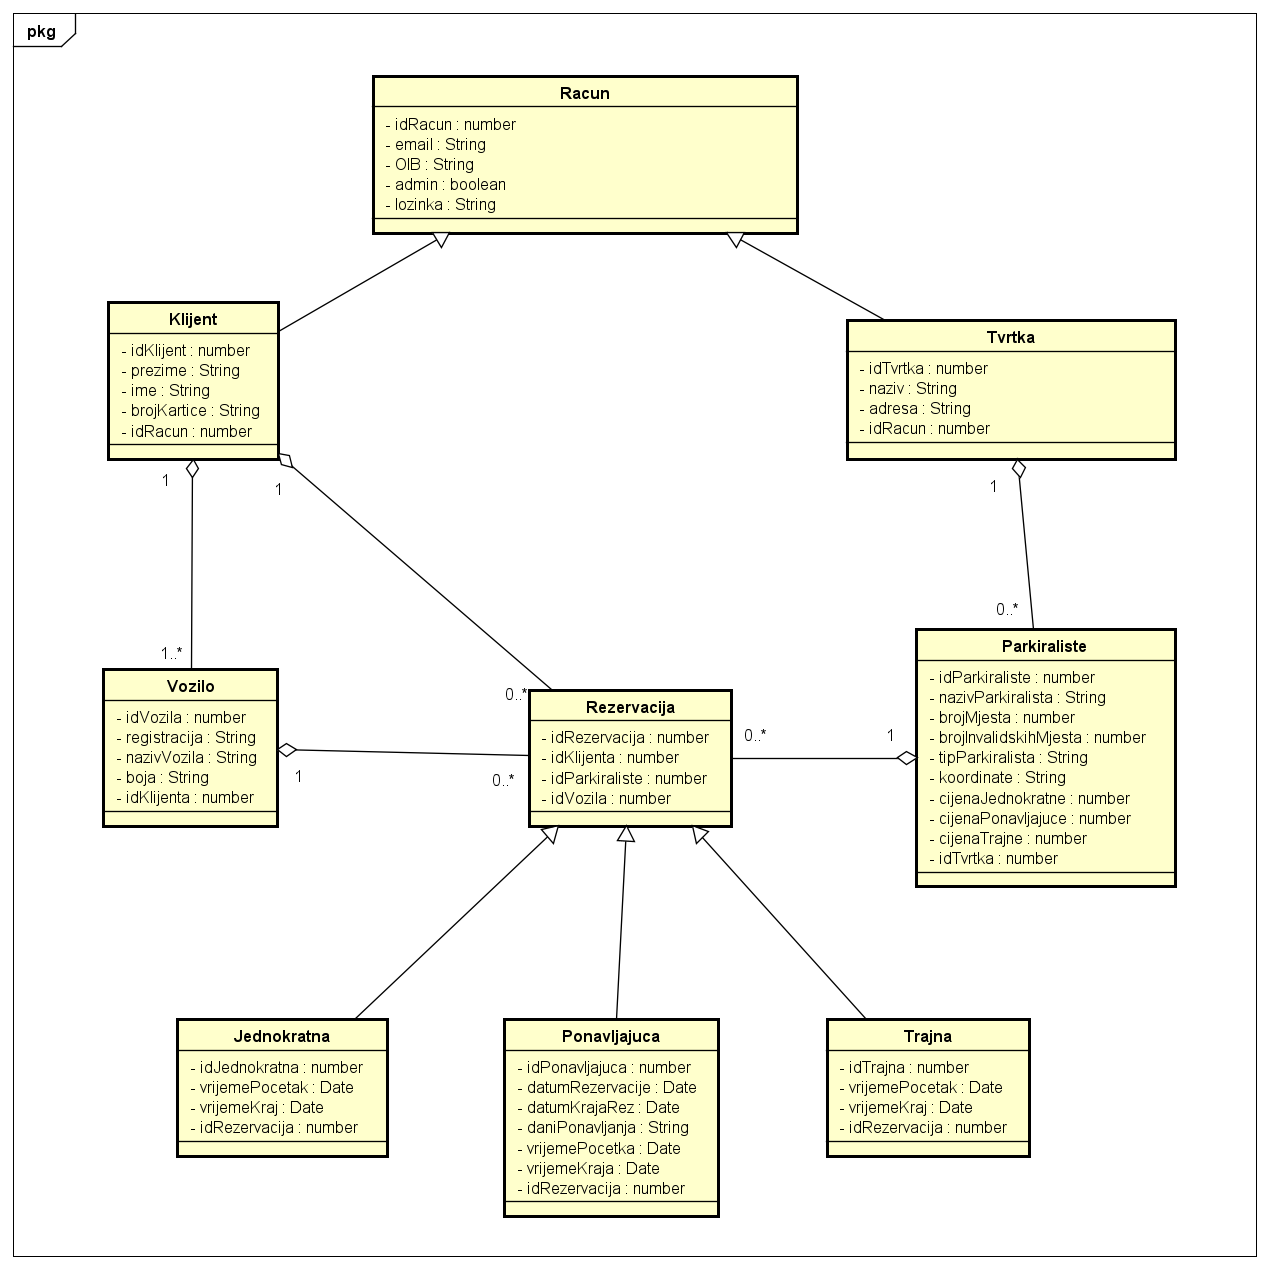
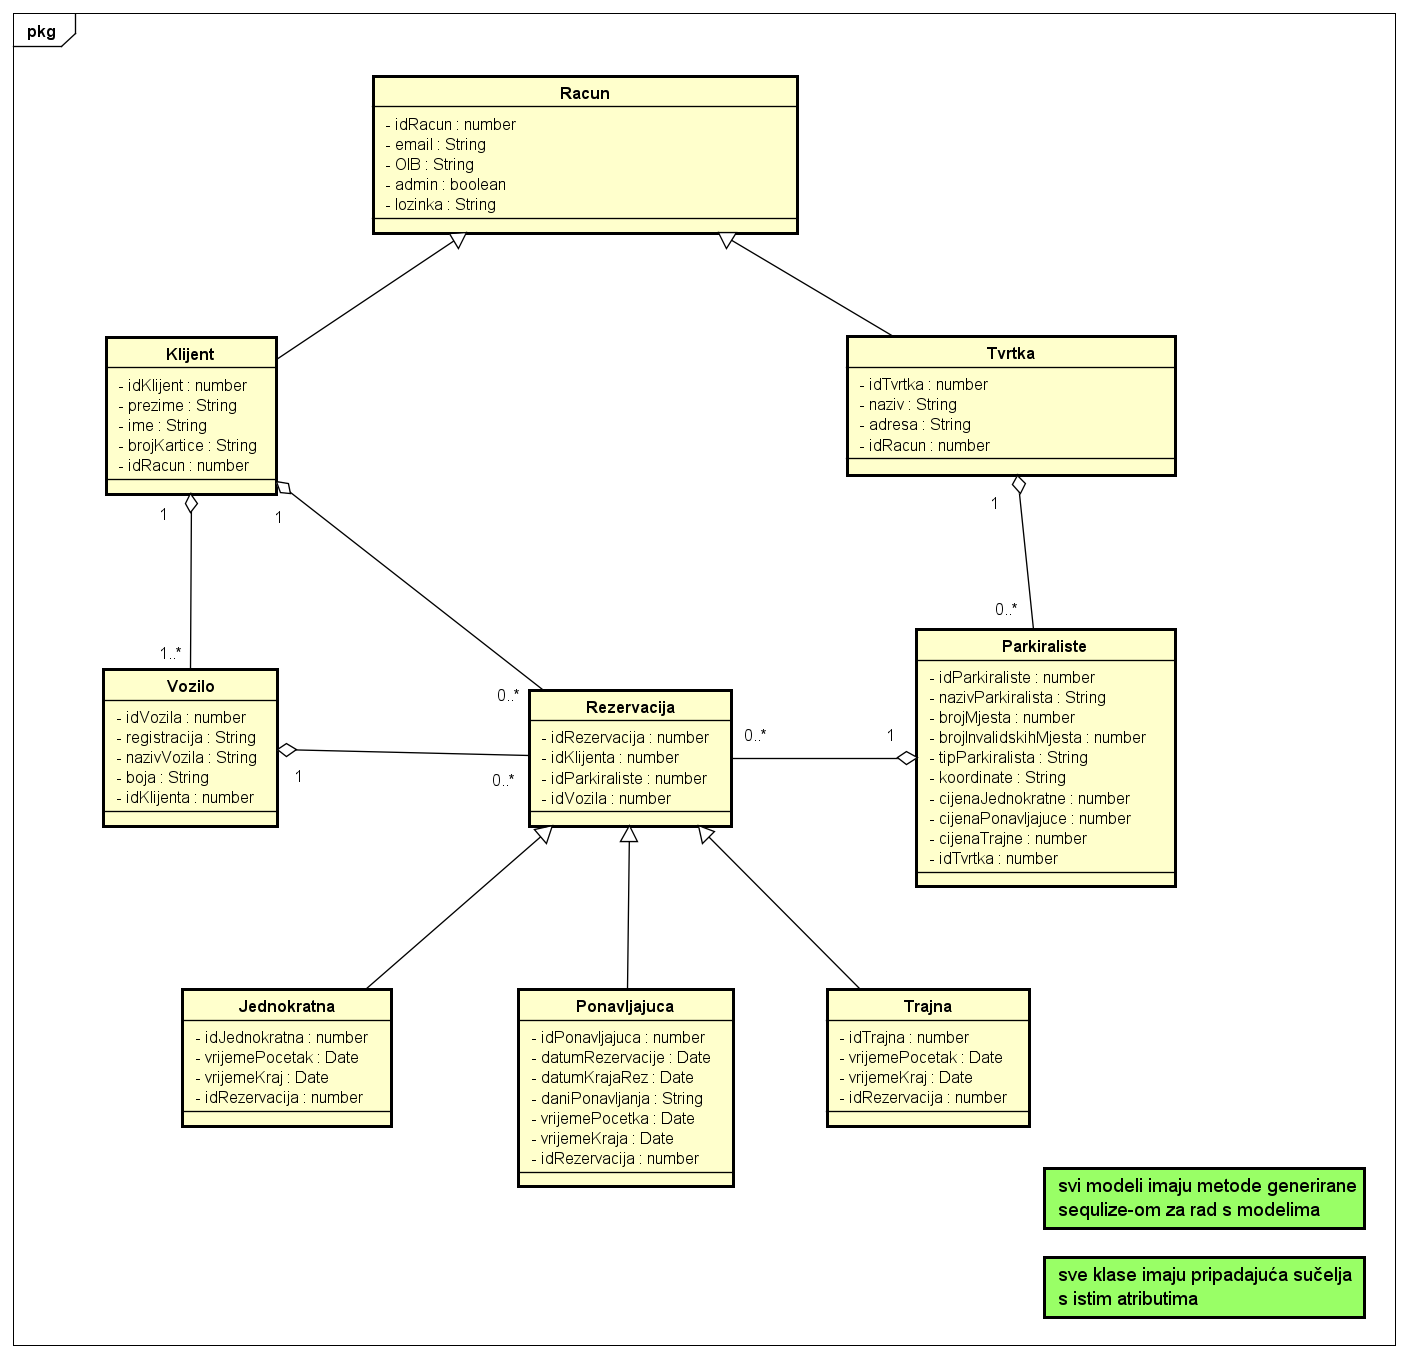
Update class diagram - models, fix image route

diff --git a/dokumentacija/Implementacija.tex b/dokumentacija/Implementacija.tex
@@ -53,7 +53,7 @@
 			 
 			 \textit{Klijent putem svojeg web preglednika pristupa web aplikaciji koja se vrti na cloud serveru. Sva komunikacija odvija se putem protokola HTTP. Na poslužiteljskom računalu nalaze se baza podataka te aplikacija.}
 			 \begin{figure}[H]
-    			\includegraphics[width=1\linewidth]{dokumentacija/dijagrami/Deployment Diagram.png}
+    			\includegraphics[width=1\linewidth]{dijagrami/Deployment Diagram.png}
     			\caption{Dijagram razmještaja}
     			\label{fig:Dijagram razmještaja} 
     		\end{figure}
